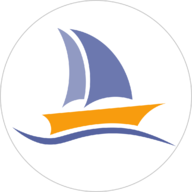
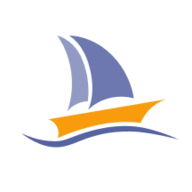
Update Brand assets

diff --git a/pmaweb/templates/components/_icon-library.html b/pmaweb/templates/components/_icon-library.html
@@ -1,26 +1,32 @@
 <svg width="0" height="0" style="display:none;">
-  
-  <symbol id="pmalogo" fill="none" xmlns="http://www.w3.org/2000/svg" viewBox="0 0 1020 792">
+
+  <symbol id="pmalogo" fill="none" xmlns="http://www.w3.org/2000/svg" viewBox="0 0 242 78">
     <path
-      d="M391.5 692C275.957 735.125 270 758.5 159 752.5 80.614 748.262 0 715 0 715s107.244 77 214 77c60 0 148-40.244 221.5-74C536 671.844 624.159 664.842 698 660c122-8 322 32 322 32s-92.299-38.639-218-59.5c-140-23.234-294.957 16.374-410.5 59.5z"
+      d="M38.9482 59.5505c-10.5601 3.5626-10.8625 4.9229-20.431 3.8094-6.7563-.7861-13.5482-4.0771-13.5482-4.0771s8.8571 7.1877 18.0906 7.7639c7.3092.4561 12.8996-2.9927 19.5621-5.1554 9.7977-3.1796 16.6072-3.5449 23.0204-3.5605 10.5951-.0284 27.6768 4.4837 27.6768 4.4837s-7.7728-3.8141-18.532-6.2837c-11.9832-2.7504-25.2786-.543-35.8387 3.0197z"
       fill="#5663A0" />
     <path
-      d="M990.55 435.473L168.977 606.5s39.781 22.809 55.023 47c13.783 21.875 20 70 20 70s110.474-57.825 266-96.139C665.526 589.048 781.5 606.5 781.5 606.5s16.839-31.725 51.5-74c43.313-52.828 157.55-97.027 157.55-97.027z"
+      d="M86.1676 40.4077L20.2003 51.5368c3.402 1.1436 5.7938 4.4349 5.6516 8.2251-.0291.7762-.165 1.522-.3891 2.2283.2011-.0949 9.8919-4.6517 23.341-7.4228 11.9197-2.4563 21.0648-1.3186 23.1365-1.0012 2.6264-6.1903 7.8291-11.0001 14.2273-13.1585z"
       fill="#F89C0E" />
     <path
-      d="M325 271c14.125 206-61 280-61 280s55.421-45.834 98-69.5c28.526-15.855 66-21.5 66-21.5s36.48-134.016-19-289C363 42.5 254 13 254 13s56.875 52 71 258z"
+      d="M43.8691 25.2438c2.2335 10.7888.1789 17.6517-1.4802 21.0732 4.3644-4.0958 10.1206-6.7874 16.5801-7.276 3.166-.2395 6.2464.0713 9.1448.8475-.366-2.7031-2.1846-12.4652-10.0607-21.6142C46.0408 4.3194 31.6252 4.99454 31.6252 4.99454s8.8569 3.89177 12.2439 20.24926z"
+      fill="#6C78AF" />
+    <path
+      d="M38.6456 17.1457C34.7124 8.43581 27.598 5.60899 25.077 4.85736c4.5157 6.38344 7.4863 14.32444 8.1599 23.08114.5234 6.8026-.3991 13.3284-2.4706 19.1786 2.6407-3.1191 6.5016-5.2249 10.9279-5.5597.1843-.0139.3673-.0228.5487-.0316.2929-1.7929 1.7268-12.5888-3.5973-24.3801z"
       fill="#6C78AF" fill-opacity=".75" />
     <path
-      d="M407.937 539.925c-1.242 1.392-1.937 2.074-1.937 2.074s.655-.734 1.937-2.074c12.166-13.631 76.793-95.306 54.563-270.426-24.5-193-123-246-123-246S506.066 28.327 632 201c97 133 97 268.5 97 268.5s-10.68-25.877-117-22.5c-113.611 3.609-191.065 79.349-204.063 92.926z"
+      d="M97.1278 34.9243c1.0616 0 2.0061.2167 2.8336.6502.8276.418 1.4756 1.0294 1.9436 1.8344.468.7895.703 1.7261.703 2.8098 0 1.3932-.305 2.6394-.914 3.7385s-1.452 1.9661-2.5288 2.6008c-1.0616.6192-2.256.9288-3.583.9288-1.0616 0-1.9749-.1858-2.7399-.5573-.7649-.387-1.3504-.9443-1.7563-1.6719l-1.3114 6.5947h-2.2481l3.3722-16.8119h2.1544l-.3044 1.5326c1.1553-1.0991 2.615-1.6487 4.3791-1.6487zm-1.6392 10.6119c.9211 0 1.7485-.2167 2.4823-.6501.7337-.449 1.3114-1.0682 1.7329-1.8577.4212-.7895.6322-1.6874.6322-2.6936 0-1.0992-.32-1.9506-.9601-2.5543-.6401-.6038-1.5534-.9056-2.7399-.9056-.9211 0-1.7563.2244-2.5057.6734-.7337.4334-1.3114 1.0449-1.7329 1.8344-.4059.7895-.6089 1.6874-.6089 2.6936 0 1.0837.3201 1.9351.9602 2.5543.6557.6038 1.569.9056 2.7399.9056zM111.802 34.9243c1.421 0 2.522.3561 3.302 1.0682.797.7121 1.195 1.7183 1.195 3.0187 0 .4489-.047.9288-.141 1.4397l-1.382 6.8966h-2.248l1.382-6.8966c.078-.418.117-.7586.117-1.0217 0-.805-.242-1.4243-.726-1.8577-.484-.4335-1.202-.6502-2.154-.6502-1.218 0-2.225.3328-3.021.9985-.781.6502-1.304 1.6255-1.569 2.9258l-1.312 6.5019h-2.248l3.466-17.2299h2.248l-1.288 6.3625c1.109-1.0372 2.568-1.5558 4.379-1.5558zM126.22 34.9243c1.062 0 2.006.2167 2.833.6502.828.418 1.476 1.0294 1.944 1.8344.469.7895.703 1.7261.703 2.8098 0 1.3932-.305 2.6394-.914 3.7385-.608 1.0991-1.451 1.9661-2.529 2.6008-1.061.6192-2.256.9288-3.583.9288-1.061 0-1.975-.1858-2.74-.5573-.765-.387-1.35-.9443-1.756-1.6719l-1.311 6.5947h-2.248l3.372-16.8119h2.154l-.304 1.5326c1.155-1.0991 2.615-1.6487 4.379-1.6487zm-1.639 10.6119c.921 0 1.748-.2167 2.482-.6501.734-.449 1.311-1.0682 1.733-1.8577.421-.7895.632-1.6874.632-2.6936 0-1.0992-.32-1.9506-.96-2.5543-.64-.6038-1.553-.9056-2.74-.9056-.921 0-1.756.2244-2.506.6734-.733.4334-1.311 1.0449-1.732 1.8344-.406.7895-.609 1.6874-.609 2.6936 0 1.0837.32 1.9351.96 2.5543.655.6038 1.569.9056 2.74.9056z"
       fill="#6C78AF" />
+    <path
+      d="M155.287 31.0929l-3.232 16.2546h-4.285l1.686-8.5685-5.457 6.9663h-2.037l-2.974-6.9663-1.733 8.5685h-4.262l3.278-16.2546h3.771l3.84 9.4044 7.447-9.4044h3.958zM169.621 34.7618l-8.126 13.143c-.671 1.0682-1.319 1.8964-1.944 2.4846-.609.6038-1.257 1.0295-1.943 1.2772-.687.2631-1.491.3947-2.413.3947-.671 0-1.334-.1006-1.99-.3018-.671-.2013-1.202-.4645-1.592-.7895l1.99-3.1116c.562.4799 1.218.7198 1.967.7198.406 0 .75-.0929 1.031-.2786.281-.1703.562-.4567.843-.8592l-2.881-12.6786h4.426l1.593 7.7325 4.683-7.7325h4.356zM178.164 44.1895h-6.978l-1.897 3.158h-4.894l10.514-16.2546h4.567l3.957 16.2546h-4.613l-.656-3.158zm-.702-3.3903l-1.101-5.2711-3.138 5.2711h4.239zM199.996 30.1176l-3.466 17.2299h-4.215l.257-1.2307c-1.015.9598-2.24 1.4397-3.676 1.4397-.937 0-1.819-.2245-2.647-.6734-.812-.4644-1.467-1.1301-1.967-1.997-.499-.8669-.749-1.8886-.749-3.0652 0-1.3623.304-2.593.913-3.6921.625-1.1146 1.468-1.9892 2.529-2.6239 1.062-.6348 2.217-.9521 3.466-.9521 1.811 0 3.099.5573 3.864 1.6719l1.241-6.1071h4.45zm-9.555 13.8861c.89 0 1.616-.3251 2.178-.9753.562-.6502.843-1.4939.843-2.5311 0-.743-.211-1.3313-.632-1.7647-.422-.4335-1.007-.6502-1.757-.6502-.89 0-1.615.3251-2.177.9752-.563.6502-.844 1.5017-.844 2.5543 0 .7431.211 1.3314.633 1.7648.421.418 1.007.627 1.756.627zM216.745 34.5528c1.343 0 2.42.3715 3.232 1.1146.812.7431 1.217 1.7957 1.217 3.158 0 .5109-.054 1.0295-.163 1.5558l-1.382 6.9663h-4.45l1.312-6.5018c.062-.2942.094-.5883.094-.8824 0-.5573-.141-.9753-.422-1.254-.265-.2786-.656-.4179-1.171-.4179-1.421 0-2.318.9056-2.693 2.7168l-1.288 6.3393h-4.449l1.335-6.5018c.062-.2632.093-.5496.093-.8592 0-.5573-.14-.9753-.421-1.2539-.266-.2942-.656-.4412-1.171-.4412-1.437 0-2.342.9211-2.717 2.7632l-1.264 6.2929h-4.45l2.529-12.5857h4.216l-.258 1.2771c1.046-.9907 2.311-1.4861 3.794-1.4861.843 0 1.6.178 2.271.5341.672.3406 1.187.8437 1.546 1.5093.593-.6656 1.28-1.1687 2.061-1.5093.796-.3561 1.662-.5341 2.599-.5341zM223.581 34.7618h4.426l-2.529 12.5857h-4.426l2.529-12.5857zm2.834-1.3933c-.765 0-1.382-.209-1.85-.6269-.469-.418-.703-.9366-.703-1.5558 0-.7276.258-1.3236.773-1.788.531-.4799 1.226-.7199 2.084-.7199.781 0 1.405.2013 1.874.6038.468.387.702.8901.702 1.5093 0 .7586-.265 1.3778-.796 1.8577s-1.225.7198-2.084.7198zM237.41 34.5528c1.39 0 2.498.3715 3.325 1.1146.843.7276 1.265 1.7803 1.265 3.158 0 .5109-.055 1.0295-.164 1.5558l-1.405 6.9663h-4.449l1.311-6.5483c.062-.2632.094-.5418.094-.8359 0-1.1146-.586-1.6719-1.757-1.6719-.78 0-1.42.2399-1.92.7198-.5.4644-.851 1.1688-1.054 2.1131l-1.264 6.2232h-4.45l2.529-12.5857h4.216l-.258 1.3004c.546-.5109 1.163-.8902 1.85-1.1379.687-.2477 1.397-.3715 2.131-.3715z"
+      fill="#F89C0E" />
   </symbol>
 
-  <symbol id="pmalogo-text" fill="none" xmlns="http://www.w3.org/2000/svg" width="92" height="15" viewBox="0 0 92 15">
+  <symbol id="pmalogo-text" fill="none" xmlns="http://www.w3.org/2000/svg" viewBox="0 0 1861 285">
     <path
-      d="M4.29102 11.1367C3.39323 11.1367 2.68913 10.8109 2.17871 10.1592H2.06934C2.14225 10.7972 2.17871 11.1663 2.17871 11.2666V14.3633H0.09375V3.35742H1.78906L2.08301 4.34863H2.17871C2.66634 3.59212 3.38867 3.21387 4.3457 3.21387C5.24805 3.21387 5.95443 3.5625 6.46484 4.25977C6.97526 4.95703 7.23047 5.92546 7.23047 7.16504C7.23047 7.98079 7.1097 8.68945 6.86816 9.29102C6.63118 9.89258 6.29167 10.3506 5.84961 10.665C5.40755 10.9795 4.88802 11.1367 4.29102 11.1367ZM3.67578 4.88184C3.16081 4.88184 2.78483 5.04134 2.54785 5.36035C2.31087 5.6748 2.18783 6.19661 2.17871 6.92578V7.15137C2.17871 7.97168 2.29948 8.55957 2.54102 8.91504C2.78711 9.27051 3.17448 9.44824 3.70312 9.44824C4.63737 9.44824 5.10449 8.67806 5.10449 7.1377C5.10449 6.38574 4.98828 5.82292 4.75586 5.44922C4.52799 5.07096 4.16797 4.88184 3.67578 4.88184ZM16.0078 11H13.9229V6.53613C13.9229 5.43327 13.5127 4.88184 12.6924 4.88184C12.109 4.88184 11.6875 5.08008 11.4277 5.47656C11.168 5.87305 11.0381 6.51562 11.0381 7.4043V11H8.95312V0.363281H11.0381V2.53027C11.0381 2.69889 11.0221 3.09538 10.9902 3.71973L10.9424 4.33496H11.0518C11.5166 3.58757 12.2549 3.21387 13.2666 3.21387C14.1644 3.21387 14.8457 3.4554 15.3105 3.93848C15.7754 4.42155 16.0078 5.11426 16.0078 6.0166V11ZM22.3516 11.1367C21.4538 11.1367 20.7497 10.8109 20.2393 10.1592H20.1299C20.2028 10.7972 20.2393 11.1663 20.2393 11.2666V14.3633H18.1543V3.35742H19.8496L20.1436 4.34863H20.2393C20.7269 3.59212 21.4492 3.21387 22.4062 3.21387C23.3086 3.21387 24.015 3.5625 24.5254 4.25977C25.0358 4.95703 25.291 5.92546 25.291 7.16504C25.291 7.98079 25.1702 8.68945 24.9287 9.29102C24.6917 9.89258 24.3522 10.3506 23.9102 10.665C23.4681 10.9795 22.9486 11.1367 22.3516 11.1367ZM21.7363 4.88184C21.2214 4.88184 20.8454 5.04134 20.6084 5.36035C20.3714 5.6748 20.2484 6.19661 20.2393 6.92578V7.15137C20.2393 7.97168 20.36 8.55957 20.6016 8.91504C20.8477 9.27051 21.235 9.44824 21.7637 9.44824C22.6979 9.44824 23.165 8.67806 23.165 7.1377C23.165 6.38574 23.0488 5.82292 22.8164 5.44922C22.5885 5.07096 22.2285 4.88184 21.7363 4.88184Z"
-      fill="#545D86" />
+      d="M115.62 76.1301c12.784 0 24.158 2.632 34.122 7.896 9.964 5.076 17.766 12.502 23.406 22.2779 5.64 9.588 8.46 20.962 8.46 34.122 0 16.92-3.666 32.054-10.998 45.402-7.332 13.348-17.484 23.876-30.456 31.584-12.784 7.52-27.166 11.28-43.146 11.28-12.784 0-23.782-2.256-32.994-6.768-9.212-4.7-16.262-11.468-21.15-20.304l-15.792 80.088H0L40.608 77.5401h25.944l-3.666 18.612c13.912-13.348 31.49-20.022 52.734-20.022zM95.88 205.004c11.092 0 21.056-2.632 29.892-7.896 8.836-5.452 15.792-12.972 20.868-22.56 5.076-9.588 7.614-20.492 7.614-32.712 0-13.348-3.854-23.688-11.562-31.02-7.708-7.332-18.706-10.9979-32.994-10.9979-11.092 0-21.15 2.7259-30.174 8.1779-8.836 5.264-15.792 12.69-20.868 22.278-4.888 9.588-7.332 20.492-7.332 32.712 0 13.16 3.854 23.5 11.562 31.02 7.896 7.332 18.894 10.998 32.994 10.998zM292.333 76.1301c17.108 0 30.362 4.324 39.762 12.972 9.588 8.648 14.382 20.8679 14.382 36.6599 0 5.452-.564 11.28-1.692 17.484L328.147 227h-27.072l16.638-83.754c.94-5.076 1.41-9.212 1.41-12.408 0-9.776-2.914-17.296-8.742-22.56-5.828-5.264-14.476-7.896-25.944-7.896-14.664 0-26.79 4.042-36.378 12.126-9.4 7.896-15.698 19.74-18.894 35.532L213.373 227h-27.072l41.736-209.2439h27.072l-15.51 77.268c13.348-12.596 30.926-18.894 52.734-18.894zM465.95 76.1301c12.784 0 24.158 2.632 34.122 7.896 9.964 5.076 17.766 12.502 23.406 22.2779 5.64 9.588 8.46 20.962 8.46 34.122 0 16.92-3.666 32.054-10.998 45.402-7.332 13.348-17.484 23.876-30.456 31.584-12.784 7.52-27.166 11.28-43.146 11.28-12.784 0-23.782-2.256-32.994-6.768-9.212-4.7-16.262-11.468-21.15-20.304l-15.792 80.088H350.33l40.608-204.1679h25.944l-3.666 18.612c13.912-13.348 31.49-20.022 52.734-20.022zM446.21 205.004c11.092 0 21.056-2.632 29.892-7.896 8.836-5.452 15.792-12.972 20.868-22.56 5.076-9.588 7.614-20.492 7.614-32.712 0-13.348-3.854-23.688-11.562-31.02-7.708-7.332-18.706-10.9979-32.994-10.9979-11.092 0-21.15 2.7259-30.174 8.1779-8.836 5.264-15.792 12.69-20.868 22.278-4.888 9.588-7.332 20.492-7.332 32.712 0 13.16 3.854 23.5 11.562 31.02 7.896 7.332 18.894 10.998 32.994 10.998z"
+      fill="#6C78AF" />
     <path
-      d="M31.4092 11L29.0029 3.15918H28.9414C29.028 4.75423 29.0713 5.81836 29.0713 6.35156V11H27.1777V1.00586H30.0625L32.4277 8.64844H32.4688L34.9775 1.00586H37.8623V11H35.8867V6.26953C35.8867 6.04622 35.889 5.78874 35.8936 5.49707C35.9027 5.2054 35.9346 4.43066 35.9893 3.17285H35.9277L33.3506 11H31.4092ZM39.127 3.35742H41.4102L42.8525 7.65723C42.9756 8.03092 43.0599 8.47298 43.1055 8.9834H43.1465C43.1966 8.514 43.2946 8.07194 43.4404 7.65723L44.8555 3.35742H47.0908L43.8574 11.9775C43.5612 12.7751 43.1374 13.3721 42.5859 13.7686C42.0391 14.165 41.3988 14.3633 40.665 14.3633C40.305 14.3633 39.9518 14.3245 39.6055 14.2471V12.5928C39.8561 12.652 40.1296 12.6816 40.4258 12.6816C40.7949 12.6816 41.1162 12.5677 41.3896 12.3398C41.6676 12.1165 41.8841 11.777 42.0391 11.3213L42.1621 10.9453L39.127 3.35742ZM54.4736 11L53.749 8.62109H50.1055L49.3809 11H47.0977L50.625 0.964844H53.2158L56.7568 11H54.4736ZM53.2432 6.84375C52.5732 4.68815 52.195 3.46908 52.1084 3.18652C52.0264 2.90397 51.9671 2.68066 51.9307 2.5166C51.7803 3.09993 51.3496 4.54232 50.6387 6.84375H53.2432ZM60.2773 11.1367C59.3796 11.1367 58.6732 10.7881 58.1582 10.0908C57.6478 9.39355 57.3926 8.42741 57.3926 7.19238C57.3926 5.93913 57.6523 4.96387 58.1719 4.2666C58.696 3.56478 59.416 3.21387 60.332 3.21387C61.2936 3.21387 62.0273 3.58757 62.5332 4.33496H62.6016C62.4967 3.7653 62.4443 3.25716 62.4443 2.81055V0.363281H64.5361V11H62.9365L62.5332 10.0088H62.4443C61.9704 10.7607 61.248 11.1367 60.2773 11.1367ZM61.0088 9.47559C61.542 9.47559 61.9316 9.32064 62.1777 9.01074C62.4284 8.70085 62.5651 8.17448 62.5879 7.43164V7.20605C62.5879 6.38574 62.4603 5.79785 62.2051 5.44238C61.9544 5.08691 61.5443 4.90918 60.9746 4.90918C60.5098 4.90918 60.1475 5.10742 59.8877 5.50391C59.6325 5.89583 59.5049 6.46777 59.5049 7.21973C59.5049 7.97168 59.6348 8.53678 59.8945 8.91504C60.1543 9.28874 60.5257 9.47559 61.0088 9.47559ZM73.5596 11H71.4746V6.53613C71.4746 5.9847 71.3812 5.57227 71.1943 5.29883C71.012 5.02083 70.7227 4.88184 70.3262 4.88184C69.793 4.88184 69.4056 5.0778 69.1641 5.46973C68.9225 5.86165 68.8018 6.50651 68.8018 7.4043V11H66.7168V3.35742H68.3096L68.5898 4.33496H68.7061C68.9111 3.98405 69.2074 3.71061 69.5947 3.51465C69.9821 3.31413 70.4264 3.21387 70.9277 3.21387C72.0716 3.21387 72.8464 3.58757 73.252 4.33496H73.4365C73.6416 3.97949 73.9424 3.70378 74.3389 3.50781C74.7399 3.31185 75.1911 3.21387 75.6924 3.21387C76.5583 3.21387 77.2122 3.43717 77.6543 3.88379C78.1009 4.32585 78.3242 5.03678 78.3242 6.0166V11H76.2324V6.53613C76.2324 5.9847 76.139 5.57227 75.9521 5.29883C75.7699 5.02083 75.4805 4.88184 75.084 4.88184C74.5736 4.88184 74.1908 5.06413 73.9355 5.42871C73.6849 5.79329 73.5596 6.37207 73.5596 7.16504V11ZM80.3818 1.38184C80.3818 0.702799 80.7601 0.363281 81.5166 0.363281C82.2731 0.363281 82.6514 0.702799 82.6514 1.38184C82.6514 1.7054 82.5557 1.95833 82.3643 2.14062C82.1774 2.31836 81.8949 2.40723 81.5166 2.40723C80.7601 2.40723 80.3818 2.06543 80.3818 1.38184ZM82.5557 11H80.4707V3.35742H82.5557V11ZM91.8047 11H89.7197V6.53613C89.7197 5.9847 89.6217 5.57227 89.4258 5.29883C89.2298 5.02083 88.9176 4.88184 88.4893 4.88184C87.9059 4.88184 87.4844 5.0778 87.2246 5.46973C86.9648 5.8571 86.835 6.50195 86.835 7.4043V11H84.75V3.35742H86.3428L86.623 4.33496H86.7393C86.9717 3.96582 87.2907 3.68783 87.6963 3.50098C88.1064 3.30957 88.5713 3.21387 89.0908 3.21387C89.9795 3.21387 90.654 3.4554 91.1143 3.93848C91.5745 4.41699 91.8047 5.1097 91.8047 6.0166V11Z"
+      d="M815.976 29.6001L777.06 227h-51.606l20.304-104.058-65.706 84.6h-24.534l-35.814-84.6L598.836 227h-51.324l39.48-197.3999h45.402L678.642 143.81l89.676-114.2099h47.658zM988.589 74.1561L890.735 233.768c-8.084 12.972-15.886 23.03-23.406 30.174-7.332 7.332-15.134 12.502-23.406 15.51-8.272 3.196-17.954 4.794-29.046 4.794-8.084 0-16.074-1.222-23.97-3.666-8.084-2.444-14.476-5.64-19.176-9.588l23.97-37.788c6.768 5.828 14.664 8.742 23.688 8.742 4.888 0 9.024-1.128 12.408-3.384 3.384-2.068 6.768-5.546 10.152-10.434L807.263 74.1561h53.298l19.176 93.9059 56.4-93.9059h52.452zM1091.47 188.648h-84.04L984.59 227h-58.938L1052.27 29.6001h54.99L1154.92 227h-55.56l-7.89-38.352zm-8.46-41.172l-13.26-64.0139-37.78 64.0139h51.04zM1354.36 17.7561L1312.63 227h-50.76l3.1-14.946c-12.22 11.656-26.98 17.484-44.28 17.484-11.28 0-21.9-2.726-31.86-8.178-9.78-5.64-17.67-13.724-23.69-24.252-6.02-10.528-9.02-22.936-9.02-37.224 0-16.544 3.66-31.49 10.99-44.838 7.52-13.536 17.68-24.1579 30.46-31.8659 12.78-7.708 26.7-11.562 41.74-11.562 21.8 0 37.31 6.768 46.53 20.304l14.94-74.166h53.58zM1239.31 186.392c10.71 0 19.45-3.948 26.22-11.844 6.77-7.896 10.15-18.142 10.15-30.738 0-9.024-2.53-16.168-7.61-21.432-5.08-5.264-12.13-7.896-21.15-7.896-10.72 0-19.46 3.948-26.23 11.844-6.76 7.896-10.15 18.236-10.15 31.02 0 9.024 2.54 16.168 7.62 21.432 5.07 5.076 12.12 7.614 21.15 7.614zM1556.06 71.6181c16.17 0 29.14 4.512 38.92 13.536 9.77 9.024 14.66 21.8079 14.66 38.3519 0 6.204-.66 12.502-1.97 18.894l-16.64 84.6h-53.58l15.79-78.96c.75-3.572 1.13-7.144 1.13-10.716 0-6.768-1.69-11.844-5.08-15.228-3.19-3.384-7.89-5.076-14.1-5.076-17.11 0-27.91 10.998-32.43 32.994L1487.25 227h-53.58l16.08-78.96c.75-3.196 1.13-6.674 1.13-10.434 0-6.768-1.7-11.844-5.08-15.228-3.2-3.572-7.9-5.358-14.1-5.358-17.3 0-28.2 11.186-32.71 33.558L1383.76 227h-53.58l30.46-152.8439h50.75l-3.1 15.51c12.6-12.032 27.83-18.048 45.69-18.048 10.15 0 19.27 2.162 27.35 6.486 8.08 4.136 14.29 10.246 18.61 18.33 7.15-8.084 15.42-14.194 24.82-18.33 9.59-4.324 20.02-6.486 31.3-6.486zM1638.38 74.1561h53.3L1661.22 227h-53.29l30.45-152.8439zm34.13-16.92c-9.22 0-16.64-2.538-22.28-7.614-5.64-5.076-8.46-11.374-8.46-18.894 0-8.836 3.1-16.074 9.3-21.71402 6.39-5.82799 14.76-8.741985 25.1-8.741985 9.4 0 16.92 2.443995 22.56 7.331985 5.64 4.70002 8.46 10.81002 8.46 18.33002 0 9.212-3.2 16.732-9.59 22.56-6.39 5.828-14.76 8.742-25.09 8.742zM1804.91 71.6181c16.73 0 30.08 4.512 40.04 13.536 10.16 8.836 15.23 21.6199 15.23 38.3519 0 6.204-.66 12.502-1.97 18.894l-16.92 84.6h-53.58l15.79-79.524c.75-3.196 1.13-6.58 1.13-10.152 0-13.536-7.05-20.304-21.15-20.304-9.4 0-17.11 2.914-23.13 8.742-6.01 5.64-10.24 14.194-12.69 25.662L1732.44 227h-53.58l30.45-152.8439h50.76l-3.1 15.792c6.58-6.204 14.01-10.81 22.28-13.818 8.27-3.008 16.82-4.512 25.66-4.512z"
       fill="#F89C0E" />
   </symbol>
 

diff --git a/pmaweb/templates/base.html b/pmaweb/templates/base.html
@@ -73,11 +73,8 @@
         </button>
         <div class="nav-brand">
           <a href="{% url 'home' %}" alt="phpMyAdmin Logo">
-            <svg class="brand-symbol">
+            <svg class="brand">
               <use xlink:href="#pmalogo"></use>
-            </svg>
-            <svg class="brand-text">
-              <use xlink:href="#pmalogo-text"></use>
             </svg>
           </a>
         </div>

diff --git a/pmaweb/static/css/style.css b/pmaweb/static/css/style.css
@@ -101,7 +101,7 @@
 
 /* Navbar */
 .navbar-toggler {
-  display: none; /* TODO: Show only in small screens, test on mobile screens */
+  display: none; /* Mobile Only */
 }
 
 .navbar {
@@ -132,10 +132,9 @@
   color: inherit;
 }
 
-.nav-brand .brand-symbol {
-  width: 6rem;
-  height: 4.4rem;
-  margin-right: 10px;
+.nav-brand svg {
+  width: 13rem;
+  margin-right: 1rem;
 }
 
 .nav-menu,
